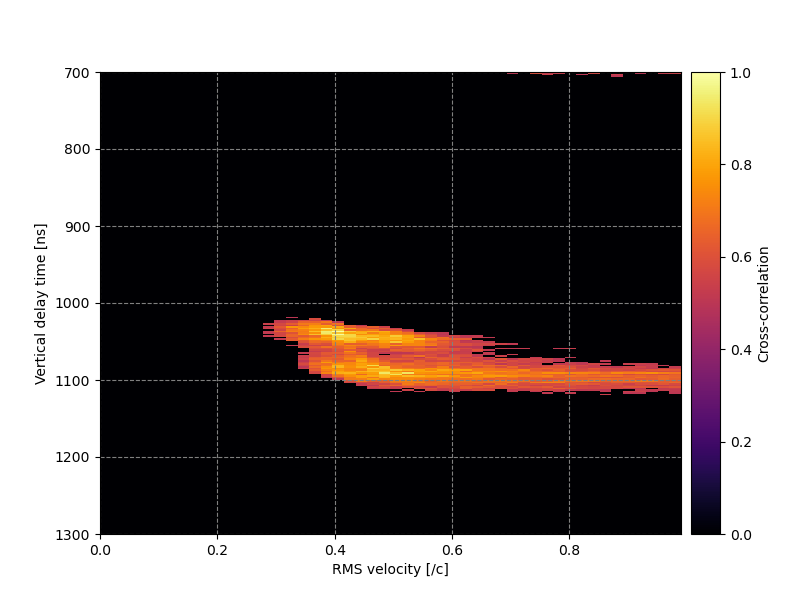
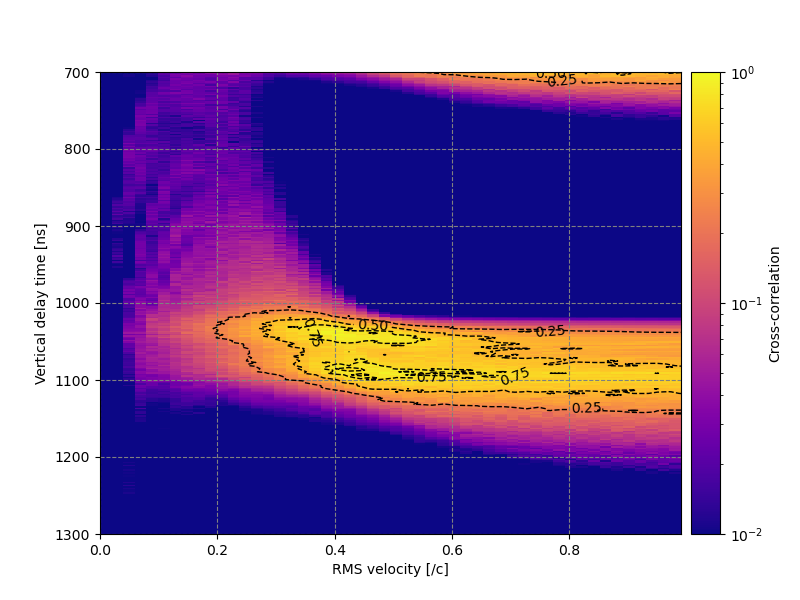
update Vrms select plot

diff --git a/tools/estimate_Vrms.py b/tools/estimate_Vrms.py
@@ -115,8 +115,11 @@ if not os.path.exists(output_dir_path):
 """
 select area [ns]
 """
-select_start = 3000
-select_end = 4000
+select_start = 3500
+select_end = 3700
+"""
+select area [ns]
+"""
 
 if args.plot_type == 'plot':
     Vt_map = np.loadtxt(params['corr_map_txt'], delimiter=',')
@@ -150,15 +153,18 @@ elif args.plot_type == 'mask':
 
 elif args.plot_type == 'select':
 
-    # select Vt_map area
-    Vt_map = np.loadtxt(params['corr_map_txt'], delimiter=',')
-    Vt_map = Vt_map[int(select_start/params['time_step']): int(select_end/params['time_step']), :]
-    Vt_map = Vt_map / np.amax(Vt_map)
+    #* select Vt_map area
+    Vt_map = np.loadtxt(params['corr_map_txt'], delimiter=',') # load data
+    Vt_map = Vt_map[int(select_start/params['time_step']): int(select_end/params['time_step']), :] # select area
+    Vt_map = Vt_map / np.amax(Vt_map) # normalize by max value in selected area
 
+    """
     # Vt_mapの最大値の50%以下の値を0に置き換える
-    max_val = np.amax(Vt_map)  # 各行の最大値を取得
+    max_val = np.amax(Vt_map)  # get max value in selected area
     for row in range(Vt_map.shape[0]):
         Vt_map[row][Vt_map[row] < 0.5*max_val] = 0
+    """
+
 
 
 elif args.plot_type == 'calc':
@@ -174,9 +180,15 @@ else:
 fig = plt.figure(figsize=(8, 6))
 ax = fig.add_subplot(111)
 if args.plot_type == 'select':
-    plt.imshow(Vt_map, cmap='inferno', aspect='auto', interpolation='nearest',
-        extent=[0, RMS_velocity[-1], select_end, select_start]
+    plt.imshow(Vt_map, cmap='plasma', aspect='auto', interpolation='nearest',
+        extent=[0, RMS_velocity[-1], select_end, select_start],
+        norm=colors.LogNorm(vmin=1e-2, vmax=1)
 )
+    levels = np.linspace(0.1, 1, 10)
+    cont = ax.contour(Vt_map, 3, colors='k', linewidths=1, linestyles='--',
+            extent=[0, RMS_velocity[-1], select_start, select_end],)
+    ax.clabel(cont, inline=True, fontsize=10, fmt='%.2f')
+
 else:
     plt.imshow(Vt_map, cmap='jet', aspect='auto', interpolation='nearest',
             extent=[0, RMS_velocity[-1], Vt_map.shape[0]*params['time_step'], 0],
